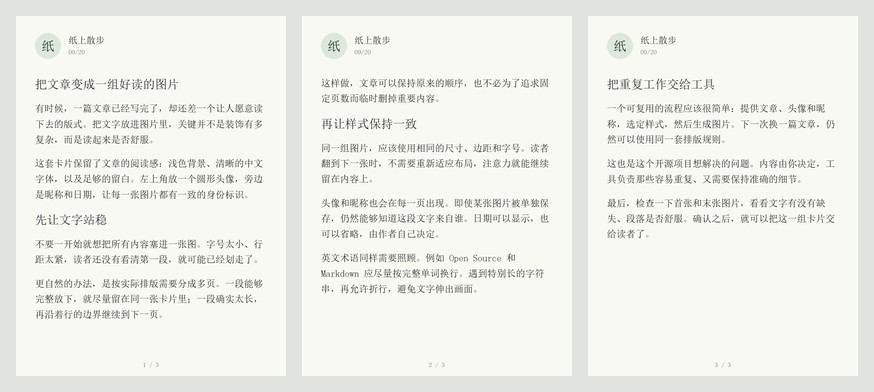
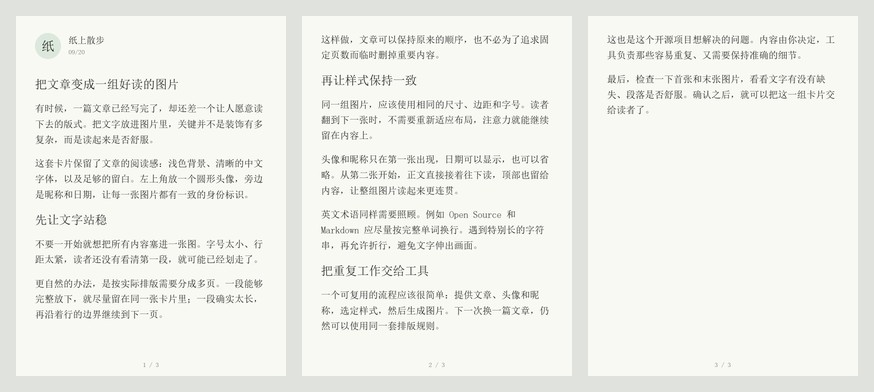
Show author header only on the first card and reclaim space on continuation pages

diff --git a/skills/article-to-xiaohongshu/scripts/render.py b/skills/article-to-xiaohongshu/scripts/render.py
@@ -33,6 +33,7 @@ class Style:
     height: int = 1440
     margin: int = 76
     body_top: int = 250
+    continuation_top: int = 76
     bottom: int = 90
     font_size: int = 38
     heading_size: int = 48
@@ -79,6 +80,8 @@ class Style:
             raise ValueError("Header overlaps the body; increase body_top.")
         if self.height - self.bottom - self.body_top < self.line_height * 3:
             raise ValueError("Body must fit at least three lines.")
+        if self.height - self.bottom - self.continuation_top < self.line_height * 3:
+            raise ValueError("Continuation pages must fit at least three lines.")
         if self.bottom < 48:
             raise ValueError("bottom must be at least 48 px for the page number.")
 
@@ -188,9 +191,9 @@ def layout(blocks, style, body_font, heading_font):
         nonlocal y
         if pages[-1]:
             pages.append([])
-        y = style.body_top
+        y = style.body_top if len(pages) == 1 else style.continuation_top
 
-    capacity = limit - style.body_top
+    capacity = limit - style.continuation_top
     for block_index, (block, lines, line_height) in enumerate(prepared):
         required = len(lines) * line_height
         if block["kind"] == "heading" and block_index + 1 < len(prepared):
@@ -274,12 +277,13 @@ def generate(article, name, output, avatar=None, date="", font=None, font_index=
     for index, lines in enumerate(pages, 1):
         card = Image.new("RGB", (style.width, style.height), style.background)
         draw = ImageDraw.Draw(card)
-        card.paste(avatar_image, (style.margin, style.header_top))
-        name_y = style.header_top + (12 if date else (style.avatar_size - style.name_size) // 2)
-        draw.text((header_x, name_y), name, font=fonts["name"], fill=style.foreground, anchor="lt")
-        if date:
-            draw.text((header_x, style.header_top + style.name_size + 30), date,
-                      font=fonts["date"], fill=style.muted, anchor="lt")
+        if index == 1:
+            card.paste(avatar_image, (style.margin, style.header_top))
+            name_y = style.header_top + (12 if date else (style.avatar_size - style.name_size) // 2)
+            draw.text((header_x, name_y), name, font=fonts["name"], fill=style.foreground, anchor="lt")
+            if date:
+                draw.text((header_x, style.header_top + style.name_size + 30), date,
+                          font=fonts["date"], fill=style.muted, anchor="lt")
         for line in lines:
             selected = fonts[line["kind"]]
             draw.text((line["x"], line["y"]), line["text"], font=selected,

diff --git a/tests/test_render.py b/tests/test_render.py
@@ -46,13 +46,17 @@ class RendererTests(unittest.TestCase):
             result = render.generate(article, "测试作者", tmp / "out", avatar=avatar, date="09/20", font=self.font_path)
             self.assertGreater(len(result["pages"]), 2)
             rebuilt = ["" for _ in result["blocks"]]
-            for page in result["pages"]:
+            for page_index, page in enumerate(result["pages"]):
                 with Image.open(tmp / "out" / page["file"]) as image:
                     self.assertEqual(image.size, (1080, 1440))
+                    if page_index > 0:
+                        self.assertEqual(image.getpixel((128, 70)), render.ImageColor.getrgb(result["style"]["background"]))
                 self.assertTrue(page["lines"])
+                expected_top = 250 if page_index == 0 else 76
+                self.assertEqual(page["lines"][0]["y"], expected_top)
                 for line in page["lines"]:
                     rebuilt[line["block"]] += line["text"]
-                    self.assertGreaterEqual(line["y"], 250)
+                    self.assertGreaterEqual(line["y"], expected_top)
                     self.assertLessEqual(line["y"] + line["height"], 1350)
             self.assertEqual(rebuilt, [b["text"] for b in result["blocks"]])
             with zipfile.ZipFile(tmp / "out/cards.zip") as archive:

diff --git a/README.md b/README.md
@@ -33,11 +33,11 @@
   <a href="examples/page-03.png"><img src="examples/page-03.png" width="32%" alt="第 3 张：文章结尾与页码"></a>
 </p>
 
-<p align="center"><sub>1080 × 1440 · 3:4 竖版 · 米白底 · 宋体正文 · 每页保留作者信息</sub></p>
+<p align="center"><sub>1080 × 1440 · 3:4 竖版 · 米白底 · 宋体正文 · 仅首张显示作者信息</sub></p>
 
 示例使用昵称首字作为头像。换成你的头像文件，就能使用同样的圆形头像排版。[查看示例原文 →](examples/article.md)
 
-**这就是项目的默认版式。** 宋体正文、宽松行距、自然分页，保留圆形头像和昵称。六种背景沿用同一套字体、字号、留白和布局，选择配色即可使用。
+**这就是项目的默认版式。** 宋体正文、宽松行距、自然分页。首张显示圆形头像、昵称和可选日期，第二张起直接接正文，利用顶部空间连续阅读。六种背景沿用同一套字体、字号、留白和布局，选择配色即可使用。
 
 ## 从「写完了」到「可以发了」
 
@@ -49,7 +49,7 @@
 | --- | --- |
 | 文字多了，一张放不下 | 按实际字体宽度换行、按可用高度分页，长文自动变成多张 |
 | 不想为了凑页数删掉内容 | 默认保留原文，不擅自改写，不靠不断缩小字号挤进一页 |
-| 翻到下一张，风格不能变 | 统一尺寸、字体和留白，每页重复头像、昵称及可选日期 |
+| 翻到下一张，阅读不要被打断 | 统一尺寸和字体，仅首张显示头像、昵称及可选日期，后续页面直接接正文 |
 | 想让图片有自己的辨识度 | 换上自己的头像和昵称，从米白、纯白、奶油、浅绿、雾蓝、浅粉中选择背景 |
 | 希望生成后方便整理 | 同时输出按顺序编号的 PNG、整组预览和图片 ZIP |
 | 不想再申请一个 API Key | 排版在本地运行，不调用图片生成 API，不上传文章或头像 |

diff --git a/skills/article-to-xiaohongshu/references/config.md b/skills/article-to-xiaohongshu/references/config.md
@@ -21,7 +21,8 @@ UTF-8 JSON 对象；未填写字段沿用默认值。未知字段报错，避免
 | --- | --- | --- |
 | width / height | 1080 / 1440 | 图片像素，支持其他竖版或方形比例 |
 | margin | 76 | 左右页边距 |
-| body_top | 250 | 正文起点 |
+| body_top | 250 | 首张正文起点 |
+| continuation_top | 76 | 第二张及以后正文起点 |
 | bottom | 90 | 正文底部保留空间 |
 | font_size | 38 | 正文字号 |
 | heading_size | 48 | 标题字号 |
@@ -38,6 +39,6 @@ UTF-8 JSON 对象；未填写字段沿用默认值。未知字段报错，避免
 
 尺寸改变后，其他数值不会自动等比缩放。例如使用 1200×1600 时，可自行同比增加页边距、字号和头像尺寸。为了维持手机阅读舒适度，优先采用默认尺寸。
 
-布局规则：先按字体实际宽度换行，再按可用高度分页。能整段放入一页的段落尽量不拆分；超过一页的长段落按行拆分，并尽量避免只剩一行。标题与下一段至少前两行尽量同页。每页重复头像和昵称。
+布局规则：先按字体实际宽度换行，再按可用高度分页。能整段放入下一页的段落尽量不拆分；超过一页的长段落按行拆分，并尽量避免只剩一行。标题与下一段至少前两行尽量同页。仅第一张显示头像、昵称和可选日期；第二张起正文从 continuation_top 开始，页码仍在每张底部显示。
 
 不支持富文本加粗、代码块、表格、图片嵌入或字体 fallback。发现不支持的字符时会提示更换字体或调整原文。

diff --git a/examples/article.md b/examples/article.md
@@ -16,7 +16,7 @@
 
 同一组图片，应该使用相同的尺寸、边距和字号。读者翻到下一张时，不需要重新适应布局，注意力就能继续留在内容上。
 
-头像和昵称也会在每一页出现。即使某张图片被单独保存，仍然能够知道这段文字来自谁。日期可以显示，也可以省略，由作者自己决定。
+头像和昵称只在第一张出现，日期可以显示，也可以省略。从第二张开始，正文直接接着往下读，顶部也留给内容，让整组图片读起来更连贯。
 
 英文术语同样需要照顾。例如 Open Source 和 Markdown 应尽量按完整单词换行。遇到特别长的字符串，再允许折行，避免文字伸出画面。
 
